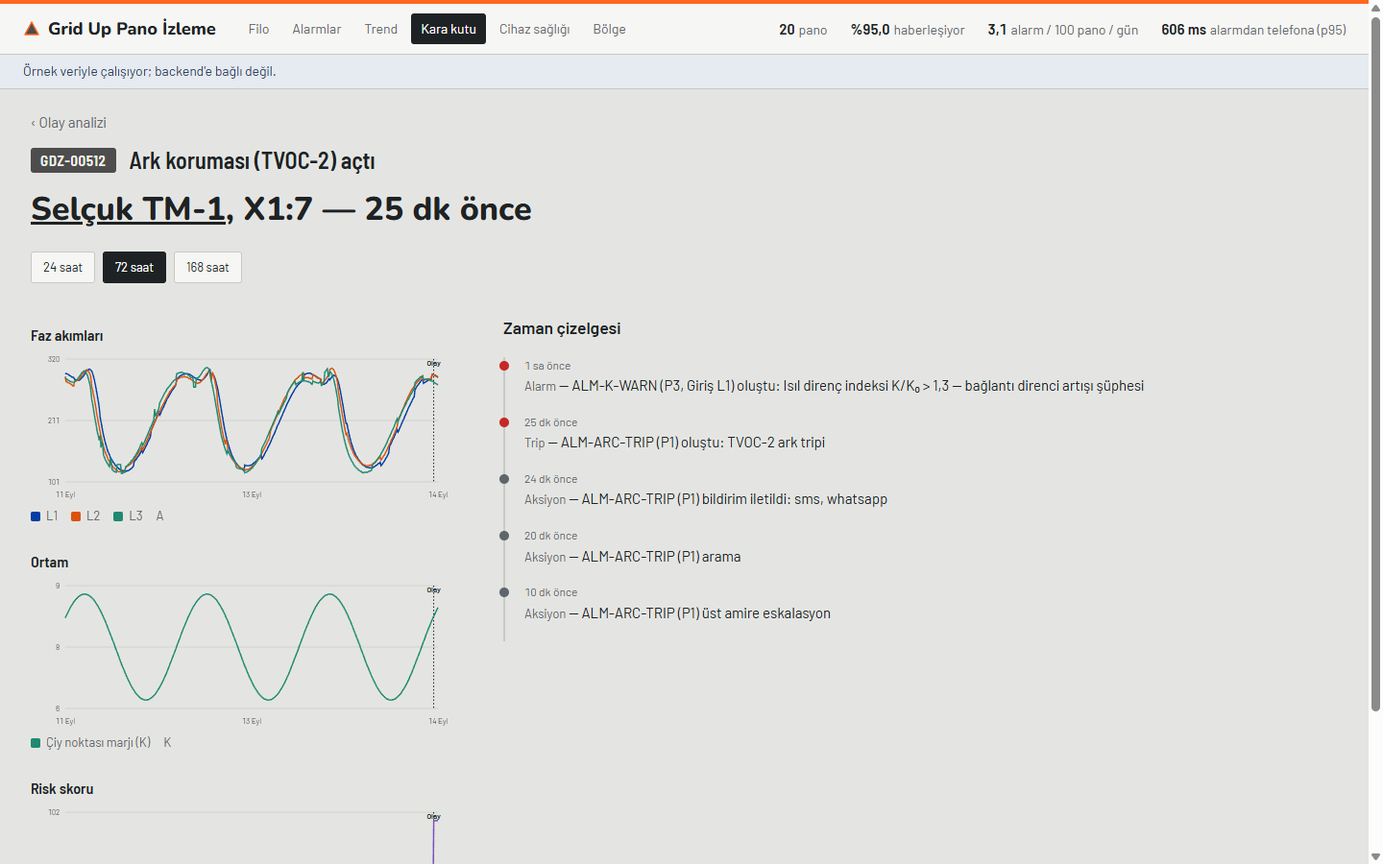
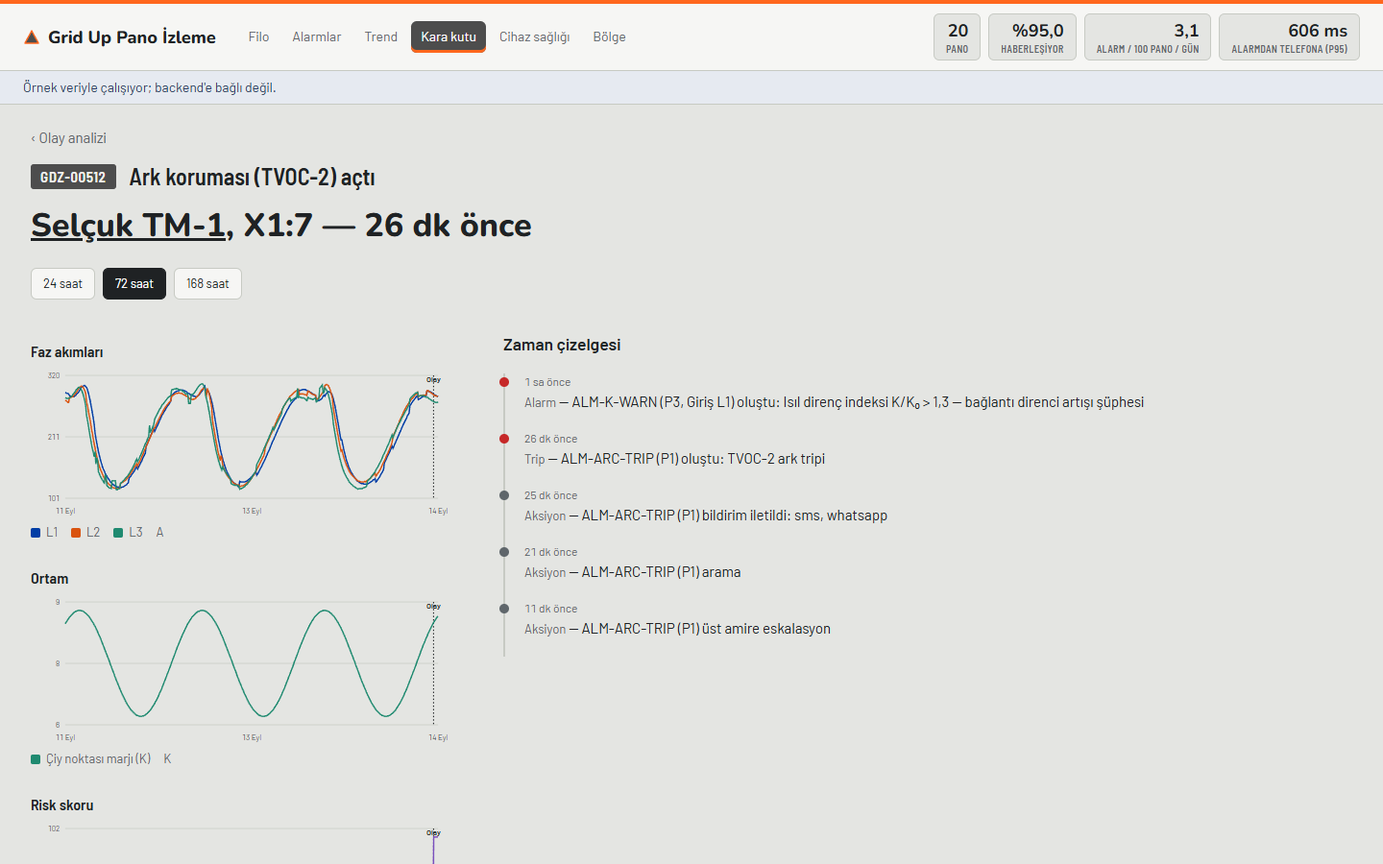
feat(frontend): duzen revizyonu — kart sistemi (kullanici geri bildirimi)
Kullanici iki geri bildirim verdi: (1) hicbir gorsel paylasilmadigi
icin tasarim degisikligini goremedi, (2) R1-R5'in yalnizca renk
token'larini degistirip sayfa duzenini/bilesen yapisini hic
degistirmedigini haklı olarak elestirdi ("global projelerden ilham
al dedim").

Yanit:
- theme.css: --radius/--radius-sm/--shadow-sm/--shadow token'lari
  (Hitachi APM, ABB SWICOM, Cognite Canvas tarzi kart+golge sistemi).
- app.css: KPI seridi -> buyuk-sayi karolari (GE Vernova/ABB tarzi);
  is listesi -> kart izgarasi (Hitachi APM varlik kartlari, tek
  sutunlu yogun liste degil); .qa/.console-card "kart icinde kart"
  sorunu giderildi (gorsel kart artik tek basina .qa); birincil
  buton (Onayla) dolgun marka turuncusu + koyu metin (5,5:1
  kontrast); aktif sekme/gorunum altina turuncu serit (inset
  box-shadow); kart kenari hover vurgusu (pin-card, work-row).
  Bilincli sinir: .console-filters'a (Kritik/Alarm/Uyari) turuncu
  EKLENMEDI — "turuncu = P2 alarmi" karisikligini onlemek icin.
- App.tsx: FleetKpis etiketleri <span> ile sarmalandi (karo stili).
- PanoDetay.tsx: saglik ozeti (PanoOzeti) artik split'ten ONCE ve
  her zaman gorunur (ABB SWICOM durum ozet bandi), olay modunda da
  soluklasmiyor.
- assets/ekran/: 8 dosya bu duzenle ucuncu kez yeniden cekildi.

Onceki adim olarak once/sonra karsilastirma sayfasi bir Artifact
olarak yayinlanip kullaniciya gonderildi; turuncuyu belirginlestirme
karari AskUserQuestion ile soruldu ("Daha belirgin yap" secildi).
[…]

diff --git a/frontend/src/app.css b/frontend/src/app.css
@@ -15,11 +15,26 @@
 .brand { display: inline-flex; align-items: center; gap: 8px; font: 800 18px var(--display); text-decoration: none; }
 .brand-mark { flex: none; }
 .nav { display: flex; gap: 4px; flex-wrap: wrap; }
-.nav-link { color: var(--dim); text-decoration: none; padding: 6px 10px; border-radius: 3px; font-size: 14px; }
+.nav-link { color: var(--dim); text-decoration: none; padding: 6px 10px; border-radius: var(--radius-sm); font-size: 14px; }
 .nav-link:hover { background: var(--well); color: var(--ink); }
-.nav-link.active { background: var(--ink); color: #fff; }
-.kpis { display: flex; gap: 24px; margin: 0 0 0 auto; padding: 0; list-style: none; color: var(--dim); font-size: 14px; }
-.kpis b { color: var(--ink); font: 600 16px var(--cond); font-variant-numeric: tabular-nums; margin-right: 4px; }
+/* Secili durum: grafit dolgu + turuncu alt serit (marka gorunurlugu, alarm rengiyle karismaz). */
+.nav-link.active { background: var(--plate); color: #fff; box-shadow: inset 0 -3px 0 var(--brand); }
+
+/* KPI seridi: duz metin yerine yukseltilmis "buyuk sayi" karolari (GE Vernova / ABB filo panolari). */
+.kpis { display: flex; gap: 8px; margin: 0 0 0 auto; padding: 0; list-style: none; }
+.kpis li {
+  display: flex;
+  flex-direction: column;
+  align-items: flex-end;
+  gap: 1px;
+  background: var(--bg);
+  border: 1px solid var(--line);
+  border-radius: var(--radius-sm);
+  padding: 5px 12px;
+  line-height: 1.2;
+}
+.kpis b { color: var(--ink); font: 700 18px var(--display); font-variant-numeric: tabular-nums; }
+.kpis span { color: var(--dim); font: 600 10px var(--cond); text-transform: uppercase; letter-spacing: 0.04em; white-space: nowrap; }
 
 .strip { padding: 7px 24px; font-size: 14px; border-bottom: 1px solid var(--line); }
 .strip.info { background: #e6eaf1; color: #2d3f63; }
@@ -65,26 +80,44 @@
 .axis-stem { position: absolute; z-index: 0; left: 13px; top: 28px; width: 2px; height: calc(var(--line) - var(--row) * var(--row-h) - 28px); background: var(--line); }
 
 .pin { position: relative; z-index: 1; display: flex; gap: 8px; align-items: flex-start; text-decoration: none; }
-.pin-card { background: var(--surface); border: 1px solid var(--line); border-radius: 4px; padding: 5px 9px; width: 200px; }
-.pin:hover .pin-card { border-color: var(--ink); }
+.pin-card {
+  background: var(--surface);
+  border: 1px solid var(--line);
+  border-left: 3px solid transparent;
+  border-radius: var(--radius-sm);
+  box-shadow: var(--shadow-sm);
+  padding: 5px 9px;
+  width: 200px;
+  transition: box-shadow 0.15s ease, border-color 0.15s ease;
+}
+.pin:hover .pin-card, .pin:focus-visible .pin-card { border-left-color: var(--brand); box-shadow: var(--shadow); }
 .pin-name { display: flex; justify-content: space-between; gap: 8px; font: 600 15px var(--cond); }
 .pin-ttl { font-variant-numeric: tabular-nums; white-space: nowrap; }
 .pin-head { display: -webkit-box; -webkit-box-orient: vertical; -webkit-line-clamp: 2; overflow: hidden; font-size: 13px; color: var(--dim); line-height: 1.3; }
 
 /* ---------- Filo: is listesi ---------- */
+/* Yogun tek sutunlu tablo yerine kart izgarasi (Hitachi Lumada APM varlik sagligi kartlari):
+   her pano kendi karti, oncelik kenar rengiyle taranabilir, genis ekranda 2+ sutuna serbestce yerlesir. */
 .section-title { font: 600 15px var(--cond); color: var(--dim); margin: 28px 0 8px; }
-.work { list-style: none; margin: 0; padding: 0; border-top: 1px solid var(--line); }
+.work { list-style: none; margin: 0; padding: 0; display: grid; grid-template-columns: repeat(auto-fill, minmax(300px, 1fr)); gap: 10px; }
 .work-row {
   display: grid;
-  grid-template-columns: 28px minmax(180px, 1fr) minmax(260px, 2.4fr) 100px;
-  grid-template-areas: "mark name body ttl";
-  gap: 16px;
+  grid-template-columns: 28px 1fr auto;
+  grid-template-areas: "mark name ttl" ". body body";
+  row-gap: 4px;
+  column-gap: 14px;
   align-items: center;
-  padding: 12px;
-  border-bottom: 1px solid var(--line);
+  height: 100%;
+  padding: 14px 16px;
+  background: var(--surface);
+  border: 1px solid var(--line);
+  border-left: 3px solid transparent;
+  border-radius: var(--radius);
+  box-shadow: var(--shadow-sm);
   text-decoration: none;
+  transition: box-shadow 0.15s ease, border-color 0.15s ease, transform 0.15s ease;
 }
-.work-row:hover { background: var(--surface); }
+.work-row:hover { border-color: var(--brand); border-left-color: var(--brand); box-shadow: var(--shadow); transform: translateY(-1px); }
 .work-row > .prio { grid-area: mark; }
 .work-name-cell { grid-area: name; }
 .work-body { grid-area: body; }
@@ -115,12 +148,12 @@
 .statement { font: 800 34px/1.15 var(--display); margin: 18px 0 24px; max-width: 34ch; }
 
 .split { display: grid; grid-template-columns: minmax(280px, 460px) 1fr; gap: 32px; align-items: start; }
-.front { margin: 0; background: var(--surface); border: 1px solid var(--line); border-radius: 4px; padding: 12px; }
+.front { margin: 0; background: var(--surface); border: 1px solid var(--line); border-radius: var(--radius); box-shadow: var(--shadow-sm); padding: 12px; }
 .front figcaption { color: var(--dim); font-size: 13px; margin: 8px 4px 0; }
 .split-3d { grid-template-columns: minmax(300px, 660px) 1fr; }
 
 /* 3D ikiz (components/Ikiz3D.tsx) */
-.i3 { position: relative; height: 540px; border-radius: 3px; overflow: hidden; background: var(--surface); }
+.i3 { position: relative; height: 540px; border-radius: var(--radius); overflow: hidden; background: var(--surface); }
 .i3-stage { position: absolute; inset: 0; }
 .i3-stage canvas { display: block; touch-action: none; }
 .i3-lbl { font: 500 11px var(--sans); color: var(--ink); background: rgba(244, 245, 241, 0.9); padding: 1px 5px; border-radius: 3px; white-space: nowrap; pointer-events: none; }
@@ -129,8 +162,8 @@
 .i3-tip { position: absolute; pointer-events: none; background: var(--ink); color: #fff; padding: 3px 8px; border-radius: 3px; font-size: 12px; white-space: nowrap; z-index: 2; }
 .i3-controls { position: absolute; left: 8px; right: 8px; bottom: 8px; display: flex; flex-direction: column; gap: 6px; z-index: 1; }
 .i3-bar { display: flex; flex-wrap: wrap; gap: 4px; }
-.i3-bar button { border: 1px solid var(--line); background: rgba(244, 245, 241, 0.94); padding: 4px 10px; border-radius: 3px; cursor: pointer; font-size: 12px; }
-.i3-bar button[aria-pressed="true"] { background: var(--ink); color: #fff; border-color: var(--ink); }
+.i3-bar button { border: 1px solid var(--line); background: rgba(244, 245, 241, 0.94); padding: 4px 10px; border-radius: var(--radius-sm); cursor: pointer; font-size: 12px; }
+.i3-bar button[aria-pressed="true"] { background: var(--plate); color: #fff; border-color: var(--plate); box-shadow: inset 0 -3px 0 var(--brand); }
 .i3-sep { width: 1px; background: var(--line); margin: 3px 2px; }
 /* Zaman kaydirici (Y1): gecmis K/K0 degerini canli durum rengine dogru interpolasyonla gosterir. */
 .i3-time { display: flex; align-items: center; gap: 8px; background: rgba(246, 246, 244, 0.95); border: 1px solid var(--line); border-radius: 3px; padding: 6px 10px; font-size: 12px; }
@@ -178,12 +211,20 @@
 .og-sel { fill: none; stroke: var(--ink); stroke-width: 6; }
 @keyframes og-pulse { 50% { opacity: 0.3; } }
 
-/* Neden / Ne yapmali / Ne kadar acil */
-.qa { border-top: 2px solid var(--ink); }
-.qa-head { display: flex; align-items: center; gap: 10px; flex-wrap: wrap; padding: 12px 0; border-bottom: 1px solid var(--line); }
+/* Neden / Ne yapmali / Ne kadar acil — pano detayda tek basina, alarm konsolunda .console-card
+   icinde: her iki yerde de goruntusel kart BUDUR (console-card yalnizca aralik/spacer, asagida). */
+.qa {
+  background: var(--surface);
+  border: 1px solid var(--line);
+  border-top: 3px solid var(--ink);
+  border-radius: var(--radius);
+  box-shadow: var(--shadow-sm);
+  padding: 4px 20px 20px;
+}
+.qa-head { display: flex; align-items: center; gap: 10px; flex-wrap: wrap; padding: 14px 0 12px; border-bottom: 1px solid var(--line); }
 .qa-head strong { font: 600 18px var(--cond); }
 /* Y2 olay modu: P1 + onaysiz alarmda kart one cikar (TASARIM-REVIZYONU.md §4). */
-.qa-event { border-top-color: var(--p1); }
+.qa-event { border-top-color: var(--p1); box-shadow: var(--shadow); }
 .event-elapsed { color: var(--p1); font: 600 14px var(--sans); }
 .event-link { margin-left: auto; color: var(--p1); font: 600 14px var(--sans); text-decoration: none; }
 .event-link:hover { text-decoration: underline; }
@@ -197,9 +238,13 @@
 .sig b { font: 600 16px var(--cond); }
 .qa .basis { color: var(--dim); font-size: 13px; margin-top: 4px; }
 .actions { display: flex; flex-wrap: wrap; align-items: center; gap: 12px; margin-top: 16px; }
-.btn { border: 1px solid var(--plate); background: var(--plate); color: #fff; padding: 9px 16px; border-radius: 3px; cursor: pointer; }
-.btn:hover { background: #3d3d3d; }
-.btn:disabled { opacity: 0.55; cursor: default; }
+/* Birincil eylem: marka turuncusu + koyu metin (5,5:1 kontrast) — "bu markanin butonu" ile
+   "bu bir alarm" ayrimi sekil/konumla (dikdortgen buton vs ucgen/kare oncelik isareti) korunur. */
+.btn { border: 1px solid var(--brand); background: var(--brand); color: var(--ink); font-weight: 600; padding: 9px 16px; border-radius: var(--radius-sm); cursor: pointer; }
+.btn:hover { filter: brightness(0.94); }
+.btn:disabled { opacity: 0.55; cursor: default; filter: none; }
+.btn.ghost { background: var(--surface); color: var(--ink); border-color: var(--line); }
+.btn.ghost:hover { background: var(--well); filter: none; }
 /* Bos/sakin durum: ince marka cizgisi + Nunito cumle (plan §3.5, "sakin anlar marka anlari olur"). */
 .calm { font: 700 20px var(--display); color: var(--dim); border-top: 2px solid var(--brand); padding-top: 14px; margin: 0; }
 
@@ -221,10 +266,13 @@
 .ph.st-critical .ph-fill { background: var(--p1); }
 .ph-v { text-align: right; font: 600 16px var(--cond); }
 
-.facts { display: grid; grid-template-columns: repeat(auto-fill, minmax(180px, 1fr)); margin-top: 32px; border-top: 1px solid var(--line); }
-.fact { padding: 12px 16px 12px 0; border-bottom: 1px solid var(--line); }
-.fact .k { color: var(--dim); font-size: 13px; }
-.fact .v { font: 600 18px var(--cond); font-variant-numeric: tabular-nums; }
+/* Saglik seridi: ABB SWICOM/Hitachi APM'deki durum ozet baricci gibi, artik split'ten ONCE
+   ve daima tam gorunur (PanoDetay.tsx) — yukseltilmis karolar, buyuk Nunito rakamlar. */
+.facts { display: grid; grid-template-columns: repeat(auto-fill, minmax(160px, 1fr)); gap: 10px; margin: 18px 0 28px; }
+.fact { background: var(--surface); border: 1px solid var(--line); border-radius: var(--radius-sm); box-shadow: var(--shadow-sm); padding: 11px 14px; }
+.fact .k { color: var(--dim); font: 600 11px var(--cond); text-transform: uppercase; letter-spacing: 0.03em; }
+.fact .v { font: 700 20px var(--display); font-variant-numeric: tabular-nums; margin-top: 2px; }
+.fact.bad { border-color: var(--p1); }
 .fact.bad .v { color: var(--p1); }
 
 .points { margin-top: 24px; }
@@ -269,19 +317,19 @@
 .chart-swatch { width: 10px; height: 10px; border-radius: 2px; display: inline-block; }
 .chart-empty { padding: 24px 0; text-align: center; }
 .chart-range { display: flex; gap: 6px; margin-bottom: 8px; }
-.chart-range button { border: 1px solid var(--line); background: var(--surface); padding: 5px 12px; border-radius: 3px; cursor: pointer; font-size: 13px; }
-.chart-range button[aria-pressed="true"] { background: var(--ink); color: #fff; border-color: var(--ink); }
+.chart-range button { border: 1px solid var(--line); background: var(--surface); padding: 5px 12px; border-radius: var(--radius-sm); cursor: pointer; font-size: 13px; }
+/* Gorunum/zaman-araligi secimi (alarm siddeti degil) — aktif sekme vurgusuyla ayni dil. */
+.chart-range button[aria-pressed="true"] { background: var(--plate); color: #fff; border-color: var(--plate); box-shadow: inset 0 -3px 0 var(--brand); }
 
 /* ---------- Alarm konsolu ---------- */
 .console-filters { display: flex; flex-wrap: wrap; gap: 8px; align-items: center; margin-bottom: 16px; }
-.console-filters button { border: 1px solid var(--line); background: var(--surface); padding: 6px 12px; border-radius: 3px; cursor: pointer; font-size: 13px; }
+.console-filters button { border: 1px solid var(--line); background: var(--surface); padding: 6px 12px; border-radius: var(--radius-sm); cursor: pointer; font-size: 13px; }
+/* Kasitli olarak turuncu vurgu YOK: bu dugmeler alarm siddetiyle ayni sozcukleri tasir
+   (Kritik/Alarm/Uyari) — marka turuncusu buraya tasarsa "turuncu = P2 alarm" izlenimini
+   guclendirir, tam da revizyonun onlemeye calistigi karisiklik (TASARIM-REVIZYONU.md §3.2). */
 .console-filters button[aria-pressed="true"] { background: var(--ink); color: #fff; border-color: var(--ink); }
-.console-list { list-style: none; margin: 0; padding: 0; }
-.console-card { border: 1px solid var(--line); border-radius: 4px; margin-bottom: 14px; background: var(--surface); overflow: hidden; }
-.console-card-top { display: flex; align-items: center; gap: 12px; padding: 10px 14px; border-bottom: 1px solid var(--line); flex-wrap: wrap; }
-.console-card-top .pano { font: 600 15px var(--cond); text-decoration: none; }
-.console-card-top .pano:hover { text-decoration: underline; }
-.console-card-body { padding: 4px 14px 12px; }
+.console-list { list-style: none; margin: 0; padding: 0; display: grid; gap: 14px; }
+/* Kartin kendisi .qa'dir (AlarmNedeni); bu yalnizca listedeki araligi verir. */
 .console-empty { padding: 40px 0; text-align: center; color: var(--dim); }
 .shelf-form { display: flex; gap: 8px; align-items: center; flex-wrap: wrap; margin-top: 8px; }
 .shelf-form input, .shelf-form select { border: 1px solid var(--line); border-radius: 3px; padding: 6px 8px; font: inherit; }
@@ -298,7 +346,7 @@
 .timeline .tl-text { display: block; margin-top: 2px; }
 
 /* ---------- Cihaz sağlığı ---------- */
-.health-grid { display: grid; grid-template-columns: repeat(auto-fill, minmax(120px, 1fr)); gap: 1px; background: var(--line); border: 1px solid var(--line); margin-top: 4px; }
+.health-grid { display: grid; grid-template-columns: repeat(auto-fill, minmax(120px, 1fr)); gap: 1px; background: var(--line); border: 1px solid var(--line); border-radius: var(--radius-sm); overflow: hidden; margin-top: 4px; }
 .health-cell { background: var(--surface); padding: 8px; }
 .health-cell .v { font: 600 16px var(--cond); }
 .health-cell.bad { background: #fbe9e4; }
@@ -306,7 +354,7 @@
 
 /* ---------- Bölge haritası ---------- */
 .region-map { display: grid; grid-template-columns: repeat(auto-fit, minmax(200px, 1fr)); gap: 16px; margin-top: 8px; }
-.region-col { border: 1px solid var(--line); border-radius: 4px; background: var(--surface); padding: 10px 12px; }
+.region-col { border: 1px solid var(--line); border-radius: var(--radius); box-shadow: var(--shadow-sm); background: var(--surface); padding: 12px 14px; }
 .region-col h3 { font: 600 15px var(--cond); margin: 0 0 8px; display: flex; justify-content: space-between; }
 .region-dots { display: flex; flex-wrap: wrap; gap: 6px; }
 .region-dot { width: 22px; height: 22px; border-radius: 4px; display: grid; place-items: center; font-size: 10px; font-weight: 700; color: #fff; text-decoration: none; }
@@ -322,9 +370,5 @@
   .statement { font-size: 26px; }
   .split { grid-template-columns: 1fr; }
   .qa section { grid-template-columns: 1fr; gap: 4px; }
-  .work-row {
-    grid-template-columns: 28px 1fr auto;
-    grid-template-areas: "mark name ttl" ". body body";
-    row-gap: 4px;
-  }
+  .work { grid-template-columns: 1fr; }
 }

diff --git a/frontend/src/App.tsx b/frontend/src/App.tsx
@@ -77,21 +77,25 @@ function FleetKpis() {
   return (
     <ul className="kpis" aria-label="Filo özeti">
       <li>
-        <b>{num(total, 0)}</b>pano
+        <b>{num(total, 0)}</b>
+        <span>pano</span>
       </li>
       {commsPct != null && (
         <li>
-          <b>%{num(commsPct, 1)}</b>haberleşiyor
+          <b>%{num(commsPct, 1)}</b>
+          <span>haberleşiyor</span>
         </li>
       )}
       {kpi?.alarms_per_100_panels_per_day != null && (
         <li>
-          <b>{num(kpi.alarms_per_100_panels_per_day, 1)}</b>alarm / 100 pano / gün
+          <b>{num(kpi.alarms_per_100_panels_per_day, 1)}</b>
+          <span>alarm / 100 pano / gün</span>
         </li>
       )}
       {kpi?.p95_end_to_end_ms != null && (
         <li>
-          <b>{num(kpi.p95_end_to_end_ms, 0)} ms</b>alarmdan telefona (p95)
+          <b>{num(kpi.p95_end_to_end_ms, 0)} ms</b>
+          <span>alarmdan telefona (p95)</span>
         </li>
       )}
     </ul>

diff --git a/frontend/src/pages/PanoDetay.tsx b/frontend/src/pages/PanoDetay.tsx
@@ -206,6 +206,9 @@ export function PanoDetay() {
         </p>
       )}
 
+      {/* Saglik seridi: split'ten once, olay modunda da tam gorunur (ABB SWICOM tarzi ozet bant). */}
+      <PanoOzeti detail={detail} />
+
       <div className={view === "3d" ? "split split-3d" : "split"}>
         <figure className="front">
           <div className="chart-range" role="group" aria-label="Pano görünümü">
@@ -269,7 +272,6 @@ export function PanoDetay() {
       </div>
 
       <div className={quiet}>
-        <PanoOzeti detail={detail} />
         <OlcumTablosu points={detail.points} selected={focus} onSelect={setSelected} />
       </div>
     </main>

diff --git a/frontend/src/theme.css b/frontend/src/theme.css
@@ -31,6 +31,13 @@
   --cond: "Barlow Semi Condensed", "Barlow", system-ui, sans-serif;
   --display: "Nunito", "Barlow", system-ui, sans-serif; /* marka yazi tipi: urun adi, sayfa basliklari, durum cumlesi */
 
+  /* Kart sistemi: duz sinirlardan yukselti/derinlige (Hitachi APM, ABB SWICOM, Cognite Canvas
+     tarzi kart+golge dashboard'lari) — bkz. TASARIM-REVIZYONU.md §10 "Duzen revizyonu". */
+  --radius: 10px;
+  --radius-sm: 6px;
+  --shadow-sm: 0 1px 2px rgba(31, 34, 36, 0.05);
+  --shadow: 0 1px 2px rgba(31, 34, 36, 0.04), 0 8px 20px rgba(31, 34, 36, 0.08);
+
   color-scheme: light;
 }
 

diff --git a/frontend/TASARIM-REVIZYONU.md b/frontend/TASARIM-REVIZYONU.md
@@ -277,6 +277,42 @@ dosya adlarını kullandığı için görsel değişmiş haliyle otomatik günce
 
 ---
 
+## 10. Düzen revizyonu — kart sistemi (kullanıcı geri bildirimi sonrası, 14 Eylül)
+
+**Gerekçe.** R1–R5 yalnızca renk/tipografi token'larını değiştirdi; sayfa düzeni ve bileşen yapısı
+aynı kaldı. Kullanıcı bunu "her şeyi aynı bırakmışsın, global projelerden ilham al dedim" diye
+haklı olarak eleştirdi. Bu bölüm, §2'deki global araştırmadan (Hitachi Lumada APM, ABB SWICOM,
+GE Vernova, Cognite Industrial Canvas) doğrudan alınan somut düzen kalıplarını uygular.
+
+| Değişiklik | Kaynak ilham | Nerede |
+|---|---|---|
+| Kart + gölge sistemi (`--radius`, `--shadow-sm`, `--shadow` token'ları) | Hitachi APM, ABB SWICOM, Cognite — hepsi duz sinirlar yerine yukseltilmis kart kullanir | `theme.css`, tüm kart sınıfları |
+| KPI şeridi → büyük-sayı karoları | GE Vernova / ABB filo panolarının "big number" özet şeritleri | `App.tsx` `FleetKpis`, `app.css` `.kpis` |
+| "Şimdi yapılacaklar" → kart ızgarası (tek sütunlu yoğun liste değil) | Hitachi Lumada APM'in varlık sağlığı kartları | `app.css` `.work`/`.work-row` |
+| Pano detayda "sağlık şeridi": split'ten önce, her zaman görünür | ABB SWICOM'un durum özet bandı | `PanoDetay.tsx` (`PanoOzeti` split'ten önce taşındı, artık `quiet` değil) |
+| Birincil buton (Onayla) → dolgun marka turuncusu + koyu metin | Kullanıcı talebi: "GDZ'nin turuncusu kullanılan bir tasarım yok" | `app.css` `.btn` |
+| Aktif sekme/görünüm altına turuncu şerit (`box-shadow: inset 0 -3px 0 var(--brand)`) | Kullanıcı talebi (bkz. AskUserQuestion, "Daha belirgin yap" seçildi) | `.nav-link.active`, `.chart-range`/`.i3-bar` `[aria-pressed=true]` |
+| Kart kenarı vurgusu (hover/focus'ta turuncu sol kenar) | — | `.pin-card`, `.work-row` |
+
+**Bilinçli sınır — turuncu her yerde değil.** `.console-filters` (Açık/Rafta/Tümü/**Kritik/Alarm/
+Uyarı**/Sistem) düğmelerine turuncu EKLENMEDİ: bu düğmelerden biri kelimenin tam anlamıyla "Alarm"
+(P2'nin adı) — turuncu vurgu koysak, revizyonun tam önlemeye çalıştığı "turuncu = P2 alarmı"
+karışıklığını tam da orada yeniden yaratırdı. Bu, kullanıcının "daha belirgin yap" talebiyle
+çelişmez — talep genel görünürlük artışıydı, alarm etiketli düğmelere özel bir istisna değildi;
+karar öneri seçilerek verildi.
+
+**`.qa`/`.console-card` birleştirmesi.** Alarm konsolunda `AlarmNedeni` (`.qa`) `.console-card`
+içine gömülüydü — ikisi de kart kenarlığı çizdiği için "kart içinde kart" görünümü oluşuyordu.
+`.console-card` artık yalnızca liste aralığı veriyor; görsel kart her yerde (pano detay + alarm
+konsolu) tek başına `.qa`.
+
+**Doğrulama:** `tsc --noEmit` temiz, 71/71 test yeşil, `vite build` başarılı. Filo/Pano detay/
+Alarm konsolu/Bölge haritası 1440px ve 390px genişlikte görsel + konsol kontrolünden geçti, yatay
+taşma yok. `assets/ekran/`'daki 8 dosya bu düzenle üçüncü kez yeniden çekildi (bkz. §8 tablo, aynı
+dosya adları).
+
+---
+
 ## Kaynaklar
 
 - ADM Elektrik: <https://www.admelektrik.com.tr/> · GDZ Elektrik: <https://www.gdzelektrik.com.tr/>

diff --git a/STATUS.md b/STATUS.md
@@ -9,8 +9,44 @@
 > PLAN.md'de yalnızca kutucuk işaretleme ve "Günlük Kayıt" satırı ekleme yapılır (kural: ortak dosya).
 > Her önemli adımdan sonra bu dosya güncellenir. Dal: `berke/frontend` (origin'e push edildi).
 
-**Son güncelleme:** 14 Eylül 2026 öğleden sonra (tasarım revizyonu R1–R5 tamamlandı, §11).
-**Son commit:** Tasarım revizyonu R5 (ekran görüntüleri yenilendi) — bkz. §11. Plan uçtan uca bitti.
+**Son güncelleme:** 14 Eylül 2026 akşam (kullanıcı geri bildirimi üzerine düzen revizyonu, §12).
+**Son commit:** Düzen revizyonu — kart sistemi, KPI/sağlık karoları, marka görünürlüğü artırıldı.
+
+## 12. Oturum 6 — Kullanıcı geri bildirimi: "tasarımda değişiklik göremiyorum" + düzen revizyonu
+
+Kullanıcı iki ayrı geri bildirim verdi:
+1. "Ben tasarımda bir değişiklik göremiyorum... GDZ'nin turuncusunun kullanıldığı bir tasarım yok
+   benim önümde." → **Kök neden: hiçbir görsel paylaşılmamıştı**, yalnızca metinle "doğrulandı"
+   denmişti. Düzeltme: önce/sonra karşılaştırma sayfası hazırlanıp Artifact olarak yayınlandı
+   (üç ekranın gerçek ekran görüntüleriyle), ardından turuncu kullanımını artırıp artırmama kararı
+   `AskUserQuestion` ile soruldu → **"Daha belirgin yap" seçildi.**
+2. Aynı mesajın hemen ardından (turuncu artırma işi sürerken): "sayfa düzeni renkleri falan her
+   şeyi aynı bırakmışsın sen... global projelerden ilham al dedim." → **Haklı bir eleştiri**: R1–R5
+   yalnızca CSS token'larını (renk/tipografi) değiştirmişti, sayfa düzenini ve bileşen yapısını hiç
+   değiştirmemişti.
+
+**Yapılan (tek geçişte, her iki geri bildirime birden yanıt):**
+
+| İş | Durum |
+|---|---|
+| Önce/sonra karşılaştırma Artifact'ı (3 ekran, gerçek görseller) | ✅ Yayınlandı, kullanıcıya link verildi |
+| Turuncuyu belirginleştirme (birincil buton, aktif sekme, kart kenarı) | ✅ Uygulandı |
+| **Kart + gölge sistemi** (`--radius`/`--shadow` token'ları, tüm kartlara uygulandı) | ✅ Uygulandı |
+| KPI şeridi → büyük-sayı karoları (GE Vernova/ABB tarzı) | ✅ Uygulandı |
+| İş listesi → kart ızgarası (Hitachi APM tarzı, tek sütunlu liste değil) | ✅ Uygulandı |
+| Pano detayda "sağlık şeridi" split'ten önce, her zaman görünür (ABB SWICOM tarzı) | ✅ Uygulandı |
+| `.qa`/`.console-card` "kart içinde kart" sorunu giderildi | ✅ Uygulandı |
+| Ekran görüntüleri 3. kez yeniden çekildi, karşılaştırma Artifact'ı güncellendi | ✅ Uygulandı |
+
+Ayrıntı, gerekçe tablosu ve bilinçli sınır (`.console-filters`'a turuncu eklenmedi, gerekçesi):
+`frontend/TASARIM-REVIZYONU.md` §10.
+
+**Ders (kendime not):** Görsel bir değişikliği yalnızca terminaldeki otomatik tarayıcı kontrolüyle
+"doğruladım" demek yetmez — kullanıcı hiçbir şey görmeden ikna olmasını beklemek doğru değildi.
+Bundan sonra görsel değişikliklerde ekran görüntüsünü veya Artifact linkini doğrudan paylaşmak
+gerekiyor.
+
+## 11. Oturum 5 — Tasarım revizyonu uygulaması: R5 (14 Eylül, "Devam et")
 
 ## 11. Oturum 5 — Tasarım revizyonu uygulaması: R5 (14 Eylül, "Devam et")
 
